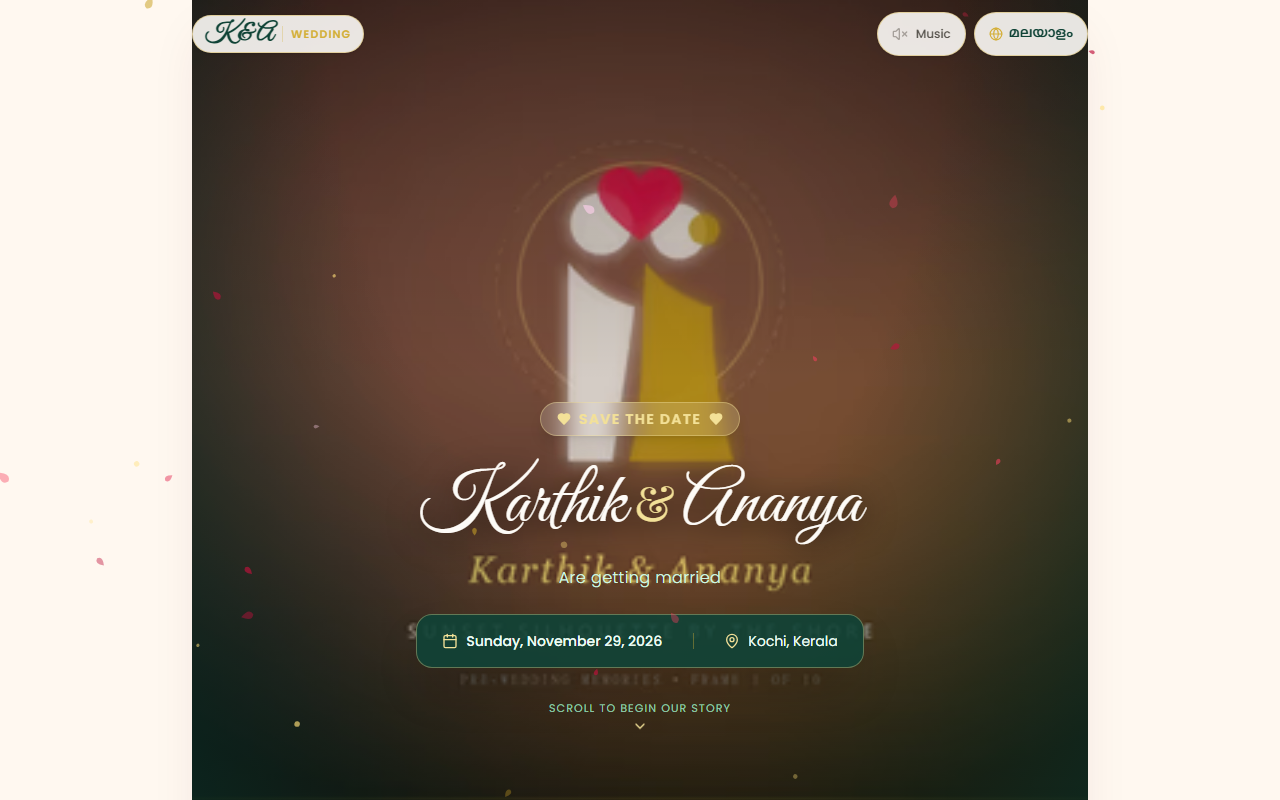
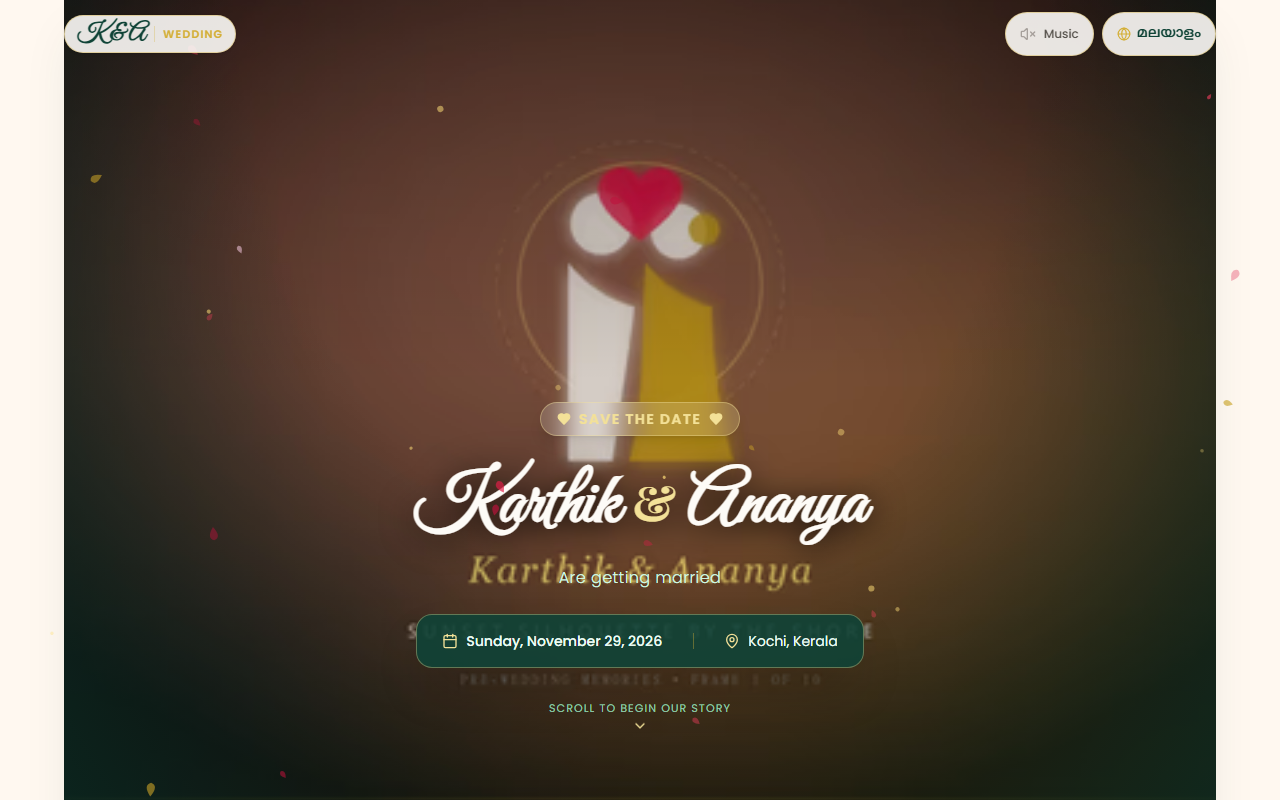
Fix alignment and auto-fit layout across mobile, tablet, and desktop viewports

Changed region(s): [[0.6875, 0.0, 0.9688, 1.0], [0.0312, 0.0, 0.2812, 1.0], [0.3125, 0.5625, 0.6875, 0.6875]]

diff --git a/src/sections/07_EventDetails.tsx b/src/sections/07_EventDetails.tsx
@@ -42,7 +42,7 @@ export const EventDetails: React.FC = () => {
 
   return (
     <section id="events" className="py-16 sm:py-24 px-4 bg-[#FDFBF7] relative overflow-hidden">
-      <div className="max-w-4xl mx-auto">
+      <div className="max-w-5xl mx-auto w-full">
         {/* Section Header */}
         <div className="text-center mb-12">
           <div className="inline-flex items-center gap-2 text-xs uppercase tracking-widest text-[#D4AF37] font-semibold mb-2">
@@ -59,8 +59,8 @@ export const EventDetails: React.FC = () => {
           <GoldDivider variant="lotus" />
         </div>
 
-        {/* Event Cards Grid */}
-        <div className="grid grid-cols-1 md:grid-cols-3 gap-6">
+        {/* Event Cards Grid - Auto-fits elegantly across mobile, tablet & desktop */}
+        <div className="grid grid-cols-1 md:grid-cols-2 lg:grid-cols-3 gap-5 lg:gap-6">
           {wedding.events.map((event, index) => {
             const title = language === 'ml' ? event.titleMl : event.titleEn;
             const tagline = language === 'ml' ? event.taglineMl : event.taglineEn;
@@ -80,15 +80,15 @@ export const EventDetails: React.FC = () => {
                 whileInView={{ opacity: 1, y: 0 }}
                 viewport={{ once: true, margin: '-50px' }}
                 transition={{ duration: 0.6, delay: index * 0.15 }}
-                className={`relative rounded-3xl p-6 flex flex-col justify-between shadow-lg transition-all hover:shadow-xl ${
+                className={`relative rounded-3xl p-5 sm:p-6 flex flex-col justify-between shadow-lg transition-all hover:shadow-xl w-full box-border ${
                   isMuhurtham
-                    ? 'bg-gradient-to-b from-[#FFFEFA] to-[#F4EFE6] border-2 border-[#D4AF37] ring-2 ring-[#D4AF37]/20'
+                    ? 'bg-gradient-to-b from-[#FFFEFA] to-[#F4EFE6] border-2 border-[#D4AF37] ring-2 ring-[#D4AF37]/20 md:col-span-2 lg:col-span-1'
                     : 'glass-card border border-[#D4AF37]/30'
                 }`}
               >
                 {/* Most Auspicious Crown Badge */}
                 {isMuhurtham && (
-                  <div className="absolute -top-3.5 left-1/2 -translate-x-1/2 px-4 py-1 rounded-full bg-gradient-to-r from-[#E6C86E] via-[#D4AF37] to-[#B68E1B] text-[#0A2B23] text-[10px] font-bold uppercase tracking-widest shadow-md">
+                  <div className="absolute -top-3.5 left-1/2 -translate-x-1/2 px-4 py-1 rounded-full bg-gradient-to-r from-[#E6C86E] via-[#D4AF37] to-[#B68E1B] text-[#0A2B23] text-[10px] font-bold uppercase tracking-widest shadow-md whitespace-nowrap z-20">
                     {language === 'ml' ? '★ താലികെട്ട് മുഹൂർത്തം' : '★ Auspicious Muhurtham'}
                   </div>
                 )}

diff --git a/src/sections/02_Hero.tsx b/src/sections/02_Hero.tsx
@@ -40,7 +40,7 @@ export const Hero: React.FC = () => {
       {/* Foreground Content Card */}
       <motion.div
         style={{ opacity: opacityParallax }}
-        className="relative z-10 w-full max-w-xl mx-auto px-4 text-center text-[#FDFBF7]"
+        className="relative z-10 w-full max-w-3xl mx-auto px-4 text-center text-[#FDFBF7]"
       >
         {/* Save The Date Pill */}
         <motion.div
@@ -54,16 +54,20 @@ export const Hero: React.FC = () => {
           <Heart className="w-3.5 h-3.5 text-[#F3E198] fill-[#F3E198]" />
         </motion.div>
 
-        {/* Couple Names */}
+        {/* Couple Names - Auto-fitting & Resilient Typography */}
         <motion.h1
           initial={{ opacity: 0, scale: 0.95 }}
           animate={{ opacity: 1, scale: 1 }}
           transition={{ duration: 0.9, delay: 0.4 }}
-          className="text-4xl sm:text-6xl md:text-7xl font-wedding-display leading-tight py-2 drop-shadow-[0_4px_16px_rgba(0,0,0,0.8)]"
+          className={`w-full max-w-3xl mx-auto px-2 text-center drop-shadow-[0_4px_16px_rgba(0,0,0,0.85)] leading-tight py-2 ${
+            language === 'ml'
+              ? 'font-malayalam-display text-3xl sm:text-5xl md:text-6xl lg:text-7xl font-bold tracking-normal'
+              : 'font-wedding-display text-4xl sm:text-6xl md:text-7xl font-bold'
+          }`}
         >
-          <span>{groomName}</span>
-          <span className="block sm:inline text-3xl sm:text-5xl font-serif text-[#F3E198] mx-2">&amp;</span>
-          <span>{brideName}</span>
+          <span className="inline-block break-words">{groomName}</span>
+          <span className="inline-block text-2xl sm:text-4xl lg:text-5xl font-serif text-[#F3E198] mx-2 sm:mx-3">&amp;</span>
+          <span className="inline-block break-words">{brideName}</span>
         </motion.h1>
 
         {/* Wedding Tagline */}

diff --git a/src/sections/09_QRCode.tsx b/src/sections/09_QRCode.tsx
@@ -51,17 +51,17 @@ export const QRCodeSection: React.FC<QRCodeSectionProps> = ({ onOpenPrintable })
 
   return (
     <section id="qr" className="py-16 sm:py-24 px-4 bg-[#FDFBF7] relative overflow-hidden">
-      <div className="max-w-xl mx-auto text-center">
+      <div className="max-w-2xl mx-auto text-center w-full">
         {/* Section Header */}
         <div className="inline-flex items-center gap-2 text-xs uppercase tracking-widest text-[#D4AF37] font-semibold mb-2">
           <QrCode className="w-3.5 h-3.5" />
           <span>{t.qr.heading}</span>
           <QrCode className="w-3.5 h-3.5" />
         </div>
-        <h2 className="text-3xl sm:text-4xl font-wedding-serif font-bold text-[#0F4336]">
+        <h2 className="text-2xl sm:text-3xl md:text-4xl font-wedding-serif font-bold text-[#0F4336] leading-snug sm:leading-normal max-w-xl mx-auto">
           {t.qr.subheading}
         </h2>
-        <p className="text-xs sm:text-sm text-stone-600 font-light mt-2 max-w-sm mx-auto">
+        <p className="text-xs sm:text-sm text-stone-600 font-light mt-2 max-w-md mx-auto">
           {t.qr.scanPrompt}
         </p>
 

diff --git a/src/sections/03_InvitationMessage.tsx b/src/sections/03_InvitationMessage.tsx
@@ -30,7 +30,7 @@ export const InvitationMessage: React.FC = () => {
       <div className="absolute top-0 left-0 w-32 h-32 bg-[radial-gradient(ellipse_at_top_left,_var(--tw-gradient-stops))] from-[#F4EFE6] to-transparent pointer-events-none" />
       <div className="absolute bottom-0 right-0 w-32 h-32 bg-[radial-gradient(ellipse_at_bottom_right,_var(--tw-gradient-stops))] from-[#F4EFE6] to-transparent pointer-events-none" />
 
-      <div className="max-w-2xl mx-auto">
+      <div className="max-w-3xl mx-auto w-full">
         <motion.div
           initial={{ opacity: 0, y: 30 }}
           whileInView={{ opacity: 1, y: 0 }}

diff --git a/src/sections/06_Gallery.tsx b/src/sections/06_Gallery.tsx
@@ -263,7 +263,7 @@ export const Gallery: React.FC = () => {
           <div className="relative py-4 sm:py-6">
             {/* 3D Perspective Stage Container with Full Touch Swipe Gestures */}
             <div
-              className="relative w-full h-[400px] sm:h-[490px] flex items-center justify-center overflow-visible touch-pan-y"
+              className="relative w-full h-[400px] sm:h-[490px] flex items-center justify-center overflow-hidden touch-pan-y"
               style={{
                 perspective: '1200px',
                 transformStyle: 'preserve-3d',

diff --git a/src/sections/11_Footer.tsx b/src/sections/11_Footer.tsx
@@ -26,7 +26,7 @@ export const Footer: React.FC = () => {
       {/* Background Radial Glow */}
       <div className="absolute inset-0 bg-[radial-gradient(ellipse_at_top,_var(--tw-gradient-stops))] from-[#0F4336]/60 via-[#0A2B23] to-[#04130F]" />
 
-      <div className="max-w-4xl mx-auto relative z-10">
+      <div className="max-w-5xl mx-auto w-full relative z-10">
         {/* Section Heading */}
         <div className="text-center mb-10">
           <div className="inline-flex items-center gap-2 text-xs uppercase tracking-widest text-[#F3E198] font-semibold mb-2">

diff --git a/src/App.tsx b/src/App.tsx
@@ -106,7 +106,7 @@ const MainWeddingContent: React.FC = () => {
       <Splash />
 
       {/* Desktop Wrapper: Centers content in phone-first reading column or responsive two-column */}
-      <main className="w-full max-w-4xl mx-auto shadow-2xl shadow-[#6B1E2E]/10 bg-[#FFF8F0] min-h-screen">
+      <main className="w-full max-w-5xl xl:max-w-6xl mx-auto shadow-2xl shadow-[#0F4336]/10 bg-[#FFF8F0] min-h-screen transition-all">
         {/* Section 2: Hero */}
         <Hero />
 

diff --git a/src/sections/08_VenueMap.tsx b/src/sections/08_VenueMap.tsx
@@ -37,7 +37,7 @@ export const VenueMap: React.FC = () => {
 
   return (
     <section id="venue" className="py-16 sm:py-24 px-4 bg-[#FDFBF7] relative overflow-hidden">
-      <div className="max-w-4xl mx-auto">
+      <div className="max-w-5xl mx-auto w-full">
         {/* Section Header */}
         <div className="text-center mb-10">
           <div className="inline-flex items-center gap-2 text-xs uppercase tracking-widest text-[#D4AF37] font-semibold mb-2">

diff --git a/src/sections/10_RSVP.tsx b/src/sections/10_RSVP.tsx
@@ -84,7 +84,7 @@ export const RSVP: React.FC = () => {
 
   return (
     <section id="rsvp" className="py-16 sm:py-24 px-4 bg-[#FDFBF7] relative overflow-hidden">
-      <div className="max-w-xl mx-auto">
+      <div className="max-w-2xl mx-auto w-full">
         {/* Section Header */}
         <div className="text-center mb-8">
           <div className="inline-flex items-center gap-2 text-xs uppercase tracking-widest text-[#D4AF37] font-semibold mb-2">

diff --git a/src/components/common/Header.tsx b/src/components/common/Header.tsx
@@ -7,7 +7,7 @@ export const Header: React.FC = () => {
 
   return (
     <header className="fixed top-3 left-0 right-0 z-40 px-3 sm:px-6 pointer-events-none">
-      <div className="max-w-4xl mx-auto flex items-center justify-between pointer-events-auto">
+      <div className="max-w-5xl xl:max-w-6xl mx-auto flex items-center justify-between pointer-events-auto">
         {/* Monogram / Brand */}
         <a
           href="#hero"
